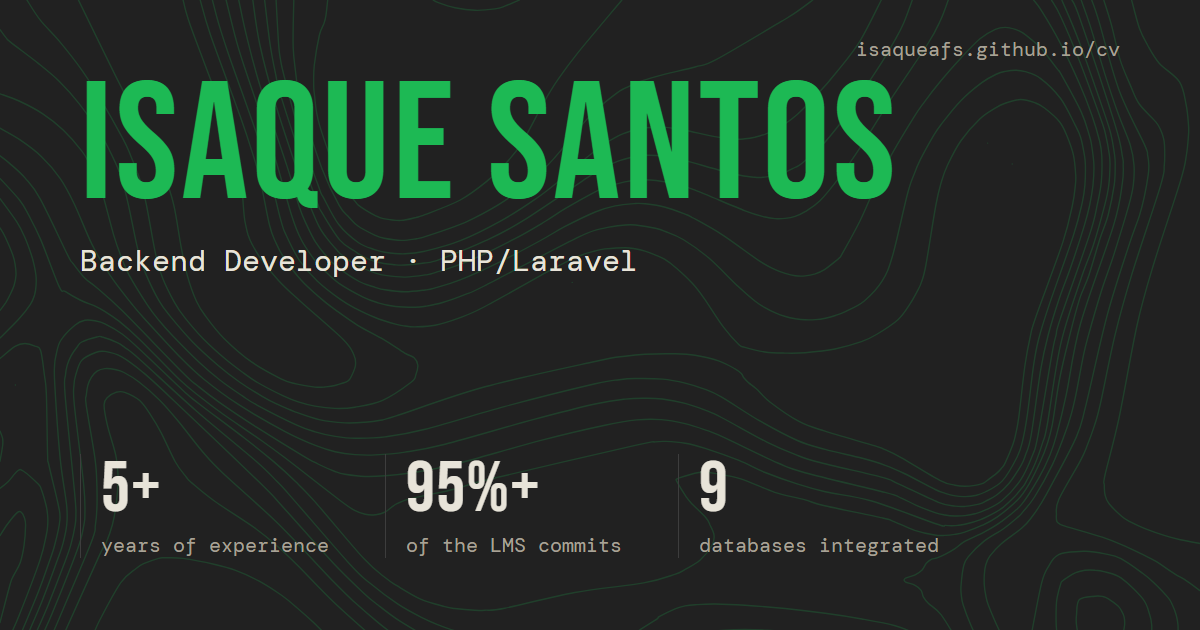
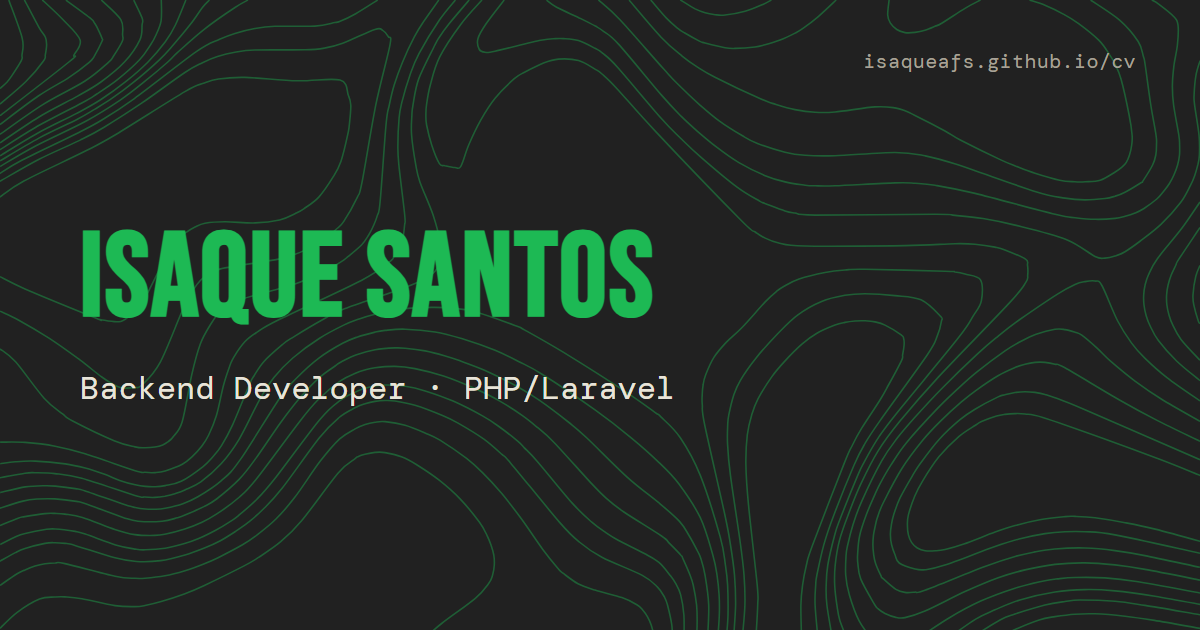
Atualizados titulo do site, imagens-og e icone para seguir padrao de estilo do projeto

diff --git a/CLAUDE.md b/CLAUDE.md
@@ -28,7 +28,7 @@ Node >= 22.12 is required. There is no test suite and no linter. Run `npm run bu
   - The container is `max-w-6xl`.
   - From `lg` it becomes a two-column grid: a main column (about + experience) and a `20rem` `<aside>` (skills, education, languages).
   - Below `lg` everything stacks in DOM order, and the aside becomes a 2-column grid on `sm`.
-  - The header holds the contact actions. Both pages keep a commented-out proof list of 4 figures from the PDF résumé (don't round them up) and a closing "Vamos conversar" / "Let’s talk" section repeating the actions before the footer; they're currently disabled, not deleted, so re-enabling one must be mirrored in the other page. The OG image alt text and the `og-pt.png`/`og-en.png` share cards still surface the same figures even though the on-page list is hidden.
+  - The header holds the contact actions. Both pages keep a commented-out proof list of 4 figures from the PDF résumé (don't round them up) and a closing "Vamos conversar" / "Let’s talk" section repeating the actions before the footer; they're currently disabled, not deleted, so re-enabling one must be mirrored in the other page. The `og-pt.png`/`og-en.png` share cards were regenerated to match (name, role line, URL — no stats); regenerate them the same way if the name/role copy changes.
   - `src/components/ContactLinks.astro` (takes `lang`): the primary email button with a copy-to-clipboard button (announced via a `role=status` region), a LinkedIn secondary button, and tertiary links to the résumé PDF (size read from `public/` at build time) and GitHub.
   - Structure: `.page` wraps `<header>`, `<main>`, `<footer>` and TopoInfo. The `.topo-focus` fade targets `.page > *`, so keep that wrapper class (the 404 uses it too).
 - **Topographic background**: `src/lib/topography.ts` builds contour-line path data. The look blends the rounded contours of the game *Hell Is Us* with a more organic, irregular flow.
